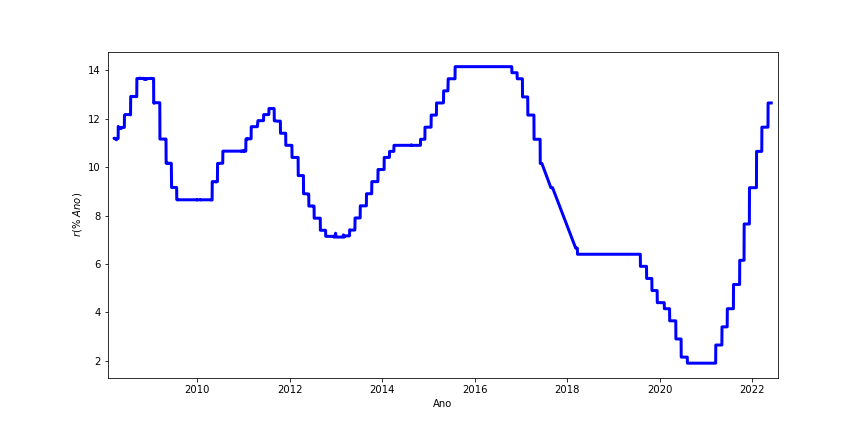
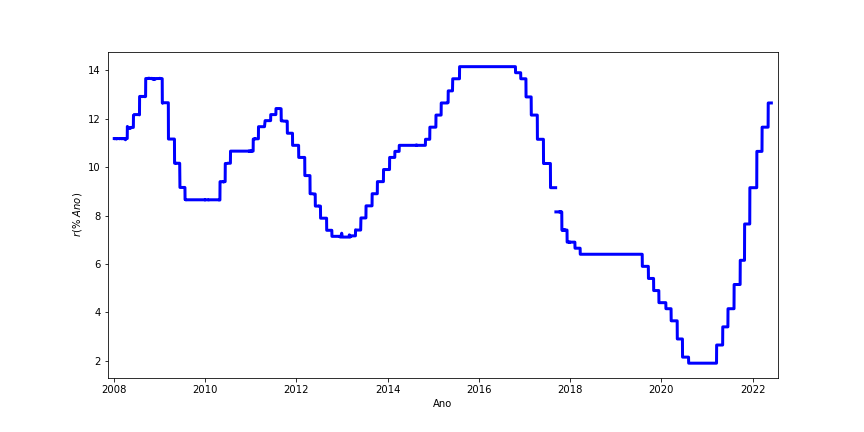
add fronteira eficiente
surgiu um erro: preciso subtrair 1 na taxa de retorno da selic antes de calcular o portfólio eficiente

diff --git a/markowitz.py b/markowitz.py
@@ -317,21 +317,6 @@ plt.show()
 fig.savefig('selic_br.png')
 
 # %%
-# Exemplo de fronteira eficiente com ativos marcados no plano "Sharpe"
-
-# obtendo a alocação do portfólio eficiente no último dia do registro
-m = full_data.iloc[-1, 6]
-l1 = R22*m/d - R12/d
-l2 = -R12*m/d + R11/d
-
-alpha = l1*inv_corr@stocks_data.loc[stocks_data.index[-1], mean_cols].values + l2*inv_corr@np.ones(len(my_tickers))
-
-# plotando os ativos no plano e exibindo a fronteira eficiente
-
-
-
-
-# %%
 # cálculo da cruvatura no ponto inicial da parametrização, t = 0
 
 full_data['k1'] = full_data['a']/np.sqrt(full_data['c'] - full_data['b']**2/full_data['a']/4)
@@ -352,27 +337,79 @@ full_data['k3'] = (full_data['a']*full_data['c'] - full_data['b']**2/4)/(full_da
 full_data = full_data.dropna()
 # %%
 # Plot  curvatura, cesta brasileira
+for y in ['k1', 'k2', 'k3']:
+    fig, ax = plt.subplots(nrows = 1, ncols = 1, figsize = (12,6))
+
+    ax.plot(full_data.index.values, np.abs(full_data[y].values), color = 'blue')
+    for x in [2008, 2015, 2011, 2020]:
+            ax.axvspan(index_data.index.values[np.where(index_data.index.year.values == x)[0][0]], index_data.index.values[np.where(index_data.index.year.values == x)[0][-1]], facecolor = 'gray')
+    # ax.axhline(0.4)
+    ax.set_ylabel(r'Curvatura,  $k(\sigma, \mu)$')
+    ax.set_xlim()
+    
+    # TODO
+    # colocar alocaçao no gráfico
+
+    # ax.set_ylim([0, 1])
+    ax.set_xlabel('Ano')
+    # ax.legend()
+    plt.subplots_adjust(wspace = 0, hspace = 0)
+    plt.show()
+    fig.savefig(y + '_br_basket.png')
+
+
+# %%
+# Exemplo de fronteira eficiente com ativos marcados no plano "Sharpe" (estamos realizando este cálculo aqui, para coletar o último valor válido das curvaturas)
+
+# obtendo a alocação do portfólio eficiente no último dia do registro
+
+# coletanto o índice do último registro válido das curvaturas
+a = full_data.index[-1]
+
+
+# retorno do portfólio eficiente e multiplicadores de Lagrange
+m = full_data.loc[a, 'r_ef'] 
+l1 = R22*m/d - R12/d
+l2 = -R12*m/d + R11/d
+
+# obtendo a alocação do portfólio eficiente
+alpha = l1*inv_corr@stocks_data.loc[a, mean_cols].values + l2*inv_corr@np.ones(len(my_tickers))
+
+# plotando os ativos no plano e exibindo a fronteira eficiente
+
+# posição dos ativos no plano Sharpe
+var_assets = stocks_data.loc[a, var_cols].values
+returns_assets = stocks_data.loc[a, mean_cols].values
+
+# obtendo a fronteira eficiente usando as parametrizações
+t = np.linspace(-3, 3, 100)
+var = np.sqrt(full_data.loc[a, 'c'] - full_data.loc[a, 'b']**2/4/full_data.loc[a, 'a'])*np.cosh(t)
+mu = np.sqrt(full_data.loc[a, 'c'] - full_data.loc[a, 'b']**2/4/full_data.loc[a, 'a'])/np.sqrt(full_data.loc[a, 'a'])*np.sinh(t) - full_data.loc[a, 'b']/2/full_data.loc[a, 'a']
+
+
+# %%
 fig, ax = plt.subplots(nrows = 1, ncols = 1, figsize = (12,6))
 
-ax.plot(full_data.index.values, np.abs(full_data['k'].values)/500, color = 'blue')
-for x in [2008, 2015, 2011, 2020]:
-        ax.axvspan(index_data.index.values[np.where(index_data.index.year.values == x)[0][0]], index_data.index.values[np.where(index_data.index.year.values == x)[0][-1]], facecolor = 'gray')
-ax.axhline(0.4)
-ax.set_ylabel(r'Curvatura,  $k(\sigma, \mu)$')
-ax.set_xlim()
-ax.set_ylim([0, 1])
+ax.plot(var, mu)
+# ponto portfólio eficiente
+ax.plot(np.sqrt(full_data.loc[a, 'var_ef']), full_data.loc[a, 'r_ef'], 'or')
+
+# ativo livre de risco
+ax.plot(0, full_data.loc[a, 'r_SELIC'], 'ob')
+# ax[0].set_yticks(list(range(9)))
+# ax[0].set_yticklabels(['0', '', '2', '', '4', '', '6', '',''])
+
+
+# ativos na cesta
+for i in range(len(my_tickers)):
+    ax.scatter(np.sqrt(stocks_data.loc[a, var_cols[i]]), stocks_data.loc[a, mean_cols[i]], label = my_tickers[i][:-3])
+
+ax.axhline(0, color = 'gray')
 ax.set_xlabel('Ano')
-# ax.legend()
+ax.legend()
 plt.subplots_adjust(wspace = 0, hspace = 0)
 plt.show()
-fig.savefig('k_br_basket.png')
-
-
-
-
-
-
-
+fig.savefig('ef_br.png')
 
 
 

diff --git a/README.md b/README.md
@@ -87,6 +87,14 @@ Geralmente utiliza-se a taxa básica de juros so país como ativo livre de risco
 
 ## A Fronteira Eficiente e a Curvatura
 
+<div style="text-align:center"><img src = "ef_br.png" /></div>
+
+<div style="text-align:center"><img src = "k1_br_basket.png" /></div>
+
+<div style="text-align:center"><img src = "k2_br_basket.png" /></div>
+
+<div style="text-align:center"><img src = "k3_br_basket.png" /></div>
+
 ## Apêndice A: Otimização de Portifólios de Markowitz
 Um portfólio é definido através de um conjunto de ativos $A_1, A_2, ... , A_N$ e a respectiva alocação (percentual) $\alpha_1, \alpha_2, ... , \alpha_N$. Desse modo, $\alpha_1~+~\alpha_2~+~\cdots~+~\alpha_N~=~1$.
 
